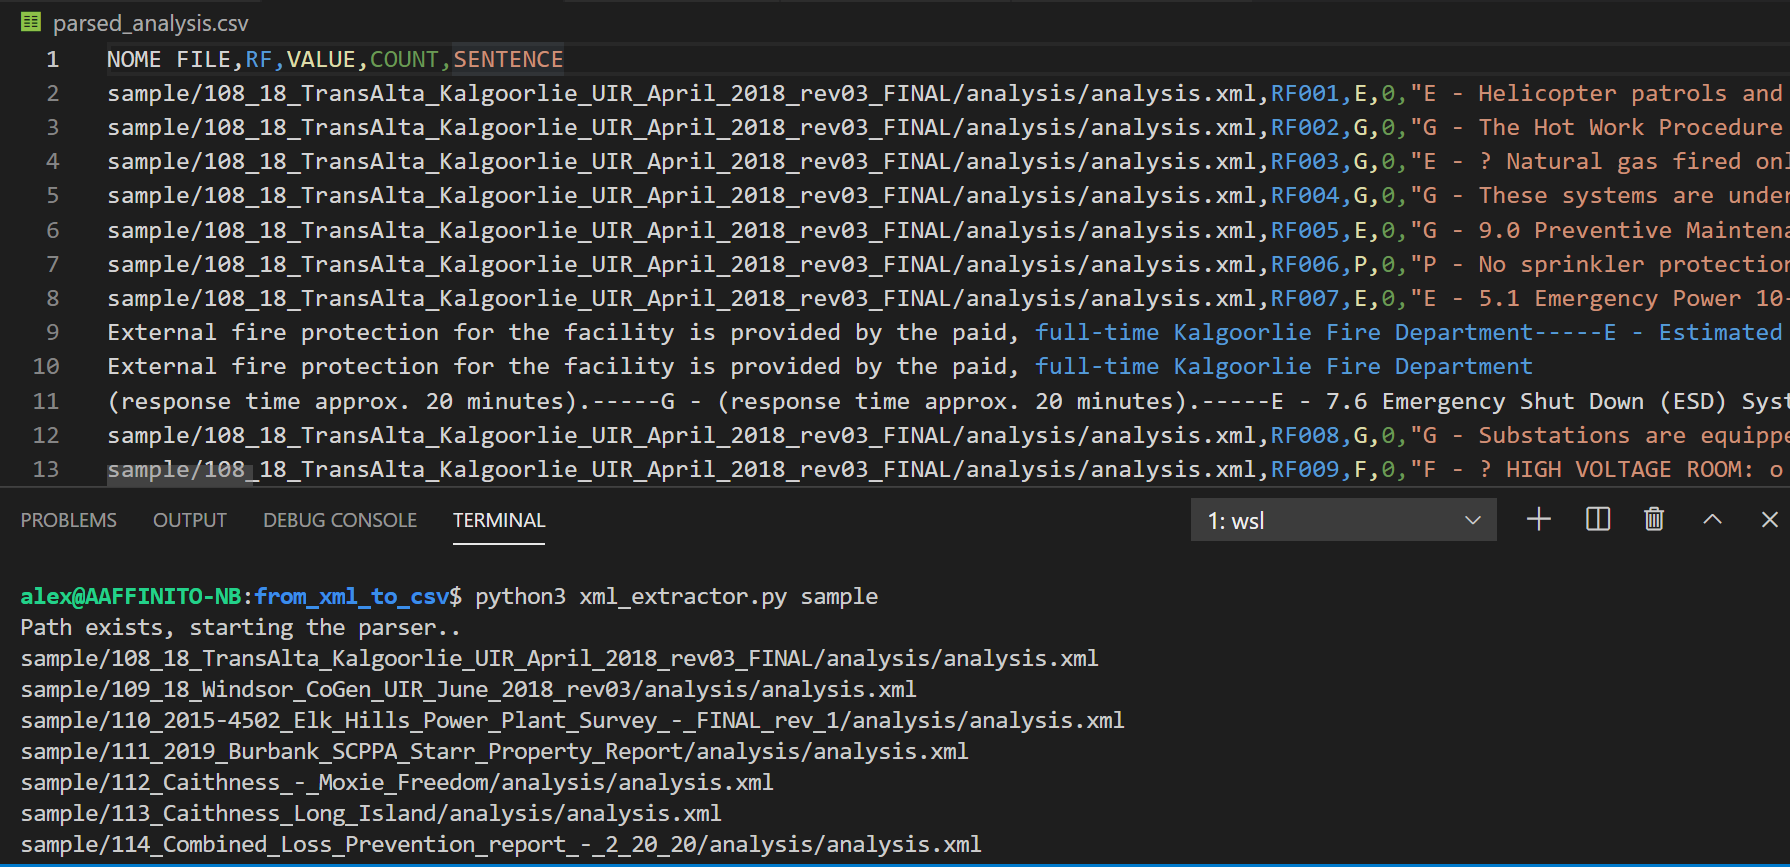
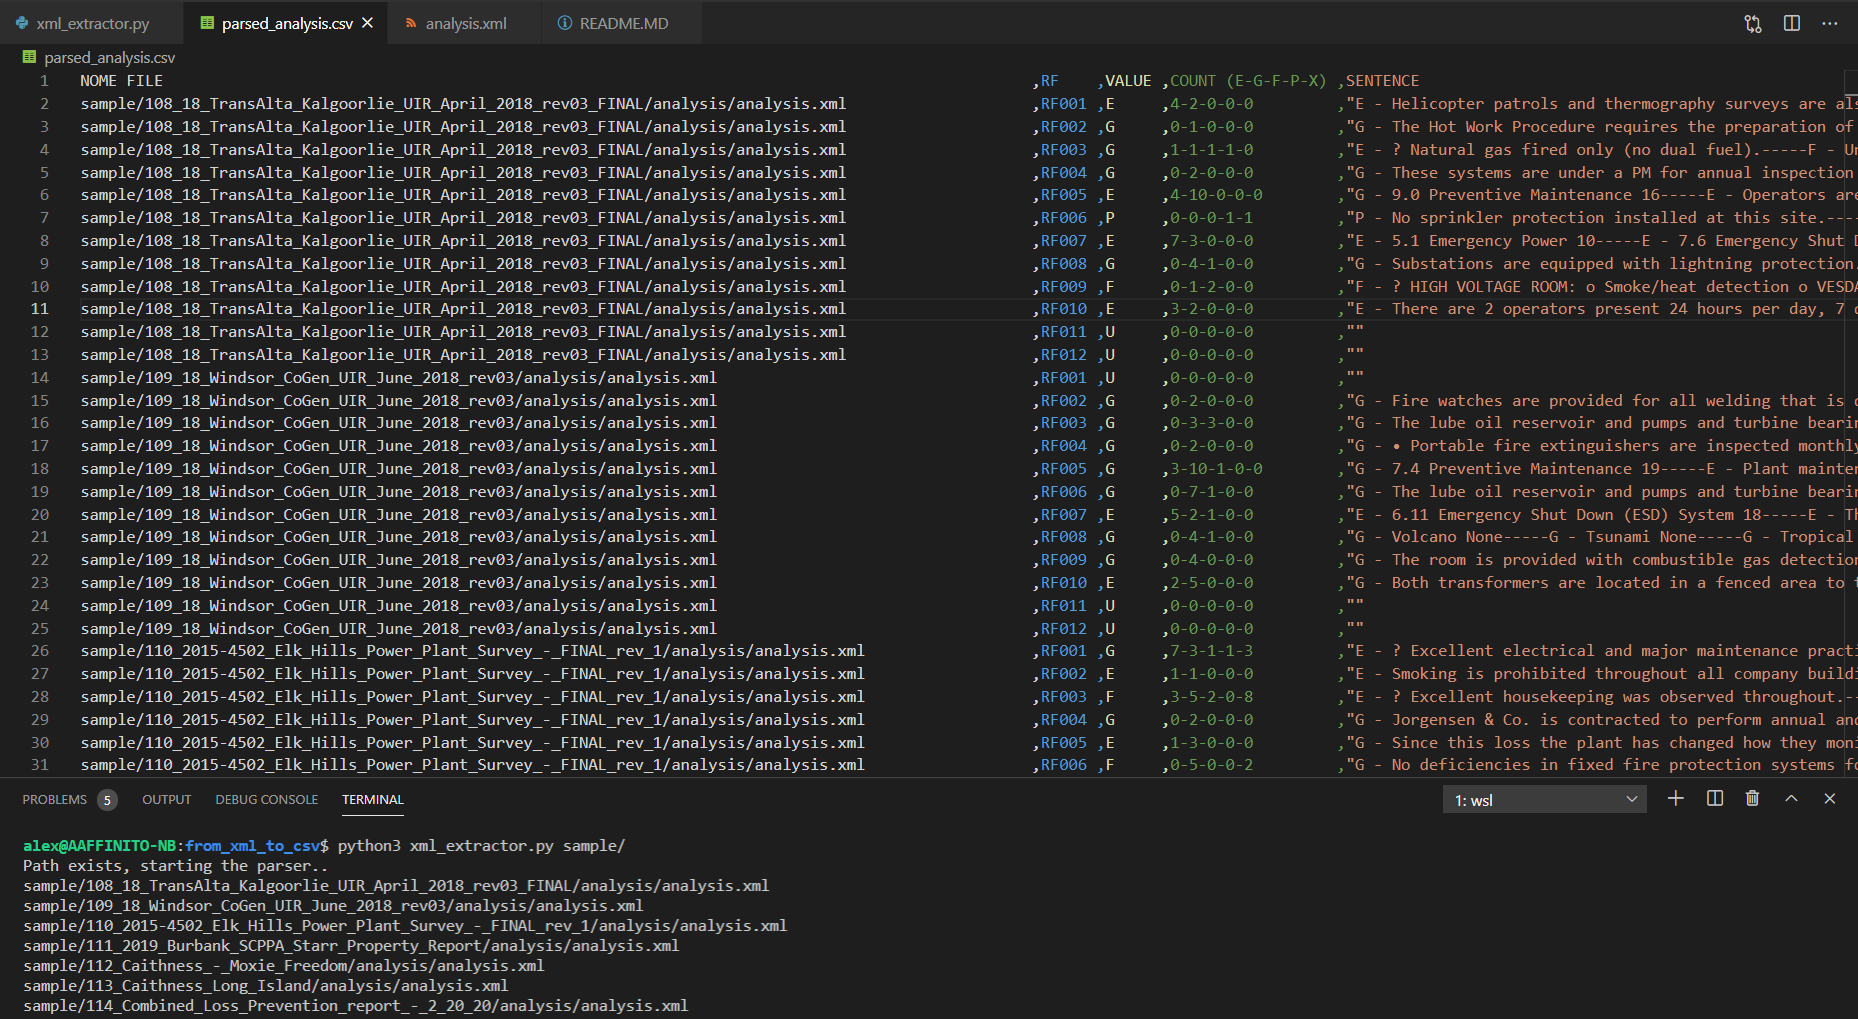
newline management, COUNT column

Changed region(s): [[0.0, 0.0, 1.0, 1.0], [0.9218, 0.0, 0.9832, 0.0311], [0.3073, 0.0, 0.3687, 0.0311]]

diff --git a/xml_extractor.py b/xml_extractor.py
@@ -16,11 +16,10 @@ parsed_args = arg_parser.parse_args(sys.argv[1:])
 if os.path.exists(parsed_args.inputDirectory):
     print("Path exists, starting the parser..")
 
-# xml_file="AEGIS_-_BESS/92_MGN_Financing_Overview__Nov_2020_/analysis/analysis.xml"
 xml_dir = parsed_args.inputDirectory
 
 ### INITIALIZE CSV FILE
-header="NOME FILE,RF,VALUE,COUNT,SENTENCE\n"
+header="NOME FILE,RF,VALUE,COUNT (E-G-F-P-X),SENTENCE\n"
 with open(r"parsed_analysis.csv", 'w') as f:
         f.write( header )
 
@@ -50,6 +49,7 @@ for dirpath, dirnames, filenames in os.walk(xml_dir):
             RF        = entry.getElementsByTagName('value')[0].attributes['name'].value
             VALUE     = entry.getElementsByTagName('value')[0].attributes['value'].value
             SENTENCE  = ""
+            COUNT_TMP = [0, 0, 0, 0, 0]    # E, G, F, P, X
 
             # sentence_list = entry.getElementsByTagName('sentences')[0]
             s = entry.getElementsByTagName('s')
@@ -58,16 +58,33 @@ for dirpath, dirnames, filenames in os.walk(xml_dir):
 
             for s_node in s:
                 if s_node.hasAttribute('riskFactorValue'):
-                    riskFactorValue = s_node.attributes['riskFactorValue'].value
-                    sentence_list += [ riskFactorValue +" - "+ s_node.getElementsByTagName('text')[0].firstChild.nodeValue ]
+                    riskFactorValue     = s_node.attributes['riskFactorValue'].value
+                    sentence_clean_text = s_node.getElementsByTagName('text')[0].firstChild.nodeValue.replace("\n", " ").replace("\"", "'")
+                    sentence_list      += [ riskFactorValue +" - "+ sentence_clean_text ]
+                    
+                    if riskFactorValue == "E":
+                        COUNT_TMP[0] += 1
+                    elif riskFactorValue == "G":
+                        COUNT_TMP[1] += 1
+                    elif riskFactorValue == "F":
+                        COUNT_TMP[2] += 1
+                    elif riskFactorValue == "P":
+                        COUNT_TMP[3] += 1
+                    elif riskFactorValue == "X":
+                        COUNT_TMP[4] += 1
+
                 else:
                     print(" > Entry {} has no sentence".format(RF))
             
             SENTENCE  = "-----".join(map(str, sentence_list ))
             SENTENCE  = "\"" + SENTENCE + "\""
 
-            ### Per ogni sentence/s: numero di E,G,F,P,U
-            COUNT     = 0
+            ### Per ogni sentence/s: numero di E,G,F,P,U            
+            if RF != "U":
+                COUNT = "-".join(map(str, COUNT_TMP))
+            else:
+                COUNT = 0
+
 
             fields    = ','.join(map(str, [FILE_NAME,RF, VALUE, COUNT, SENTENCE]))
 
